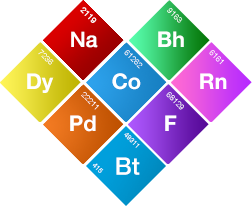
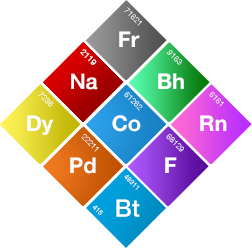
Francium

diff --git a/README.md b/README.md
@@ -58,3 +58,9 @@ Just because.
 > A lightweight commandline tool to automatically generate strong-typed images
 
 🔗 **[e-sites/Radon](https://github.com/e-sites/Radon)**
+
+
+## `Fr` → Francium
+> A small library to use for your file system.
+
+🔗 **[e-sites/Francium](https://github.com/e-sites/Francium)**
